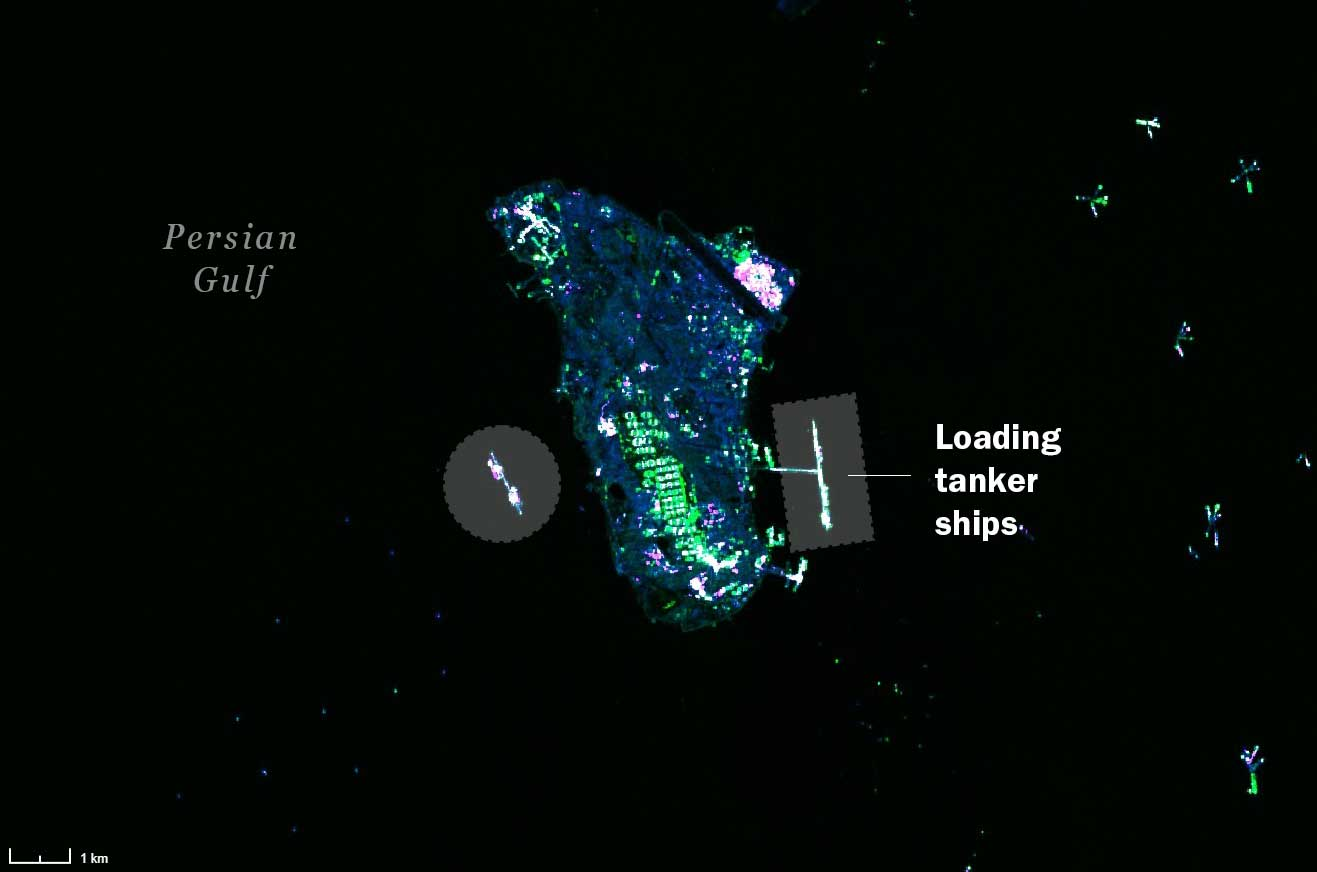
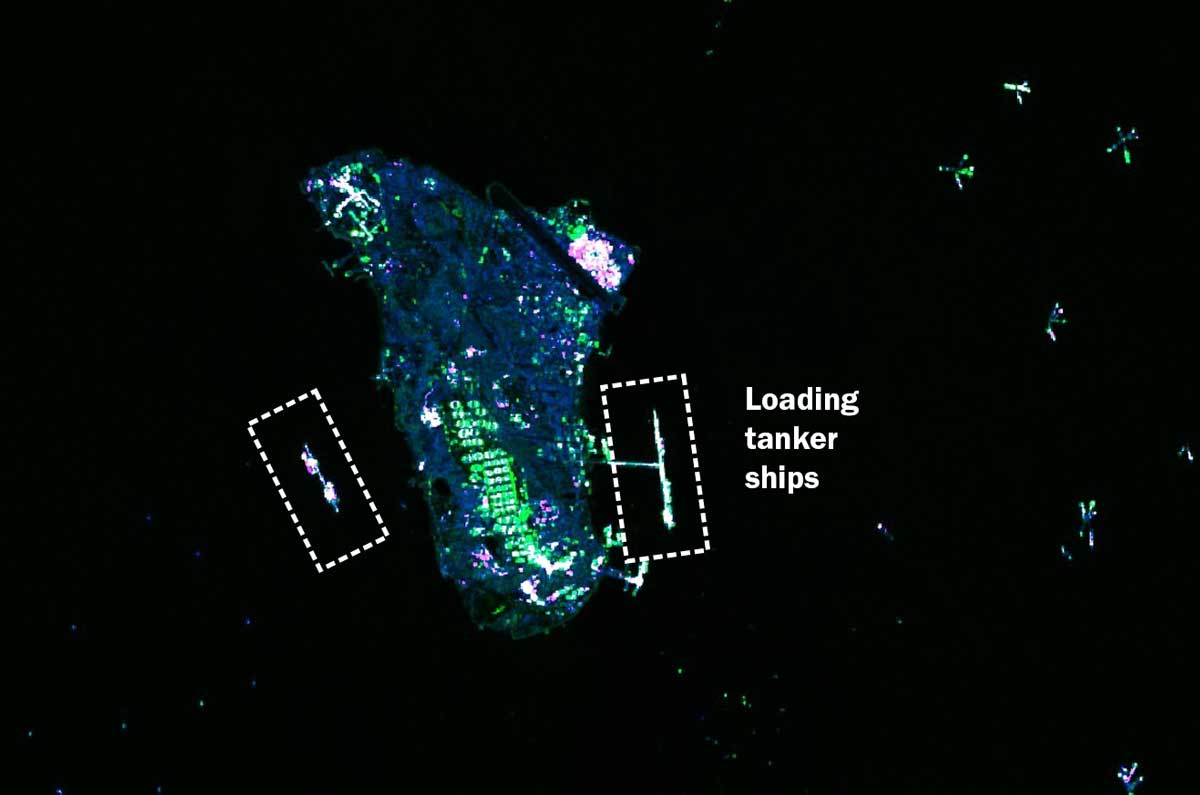
kharg redo, offset fix

diff --git a/index.html b/index.html
@@ -304,6 +304,31 @@
             </p>
         </section>
 
+        <section class="chapter-copy chapter-copy--world-order">
+            <h2 class="graph-hed">Share of Nitrogenous Fertiliser Imports from Gulf Countries in 2023 (%),
+                by Nitrogen Use per Area of
+                Cropland (kg/ha) from Inorganic Fertilisers</h2>
+            <figure class="media-breakout media-block">
+                <img loading="lazy" decoding="async" src="media/5.png" alt="Fertiliser supply chain" />
+
+                <figcaption>
+                    Many countries use nitrogenous fertiliser brought in from Gulf countries to produce
+                    grain and
+                    oilseed. This chart shows how much they typically rely on those imports. Sources: FAO.
+                    2026.
+                    FAOSTAT: Detailed trade matrix (fertilisers).
+                    <span class="credit">CRISIS GROUP</span>
+                </figcaption>
+            </figure>
+
+              <p>
+                        Countries where war has already severely disrupted agriculture, such as Sudan – where the UN
+                        documented famine in 2024 and 2025 and continues to warn of mass starvation – are even more
+                        vulnerable to another price shock.
+                    </p>
+
+        </section>
+
         <section
             class="chapter-copy chapter-copy--scroll-swap chapter-copy--scroll-swap-contained chapter-copy--scroll-swap-wide-media media-block"
             data-scroll-swap data-swap-state="before">
@@ -319,11 +344,6 @@
                     </div>
                 </figure>
                 <div class="scroll-swap__copy">
-                    <p>
-                        Countries where war has already severely disrupted agriculture, such as Sudan – where the UN
-                        documented famine in 2024 and 2025 and continues to warn of mass starvation – are even more
-                        vulnerable to another price shock.
-                    </p>
                     <p>This massive hit to fertiliser supply represents a major risk for present or fast-approaching
                         planting seasons for <a href="https://www.fas.usda.gov/data/production/0422110" target="_blank"
                             rel="noopener noreferrer">rice</a> in the Eastern Hemisphere and, should it persist into
@@ -378,25 +398,6 @@
                                 href="https://www.forbes.com/sites/tiriasresearch/2026/04/07/helium-crisis-tightens-grip-on-global-chip-supply-chain/"
                                 target="_blank" rel="noopener noreferrer">Taiwan</a>.
                         </p>
-
-                    </section>
-
-                    <section class="chapter-copy chapter-copy--world-order">
-                        <h2 class="graph-hed">Share of Nitrogenous Fertiliser Imports from Gulf Countries in 2023 (%),
-                            by Nitrogen Use per Area of
-                            Cropland (kg/ha) from Inorganic Fertilisers</h2>
-                        <figure class="media-breakout media-block">
-                            <img loading="lazy" decoding="async" src="media/5.png" alt="Fertiliser supply chain" />
-
-                            <figcaption>
-                                Many countries use nitrogenous fertiliser brought in from Gulf countries to produce
-                                grain and
-                                oilseed. This chart shows how much they typically rely on those imports. Sources: FAO.
-                                2026.
-                                FAOSTAT: Detailed trade matrix (fertilisers).
-                                <span class="credit">CRISIS GROUP</span>
-                            </figcaption>
-                        </figure>
 
                     </section>
 

diff --git a/styles.css b/styles.css
@@ -409,7 +409,7 @@ figure {
 }
 
 .chapter-copy--scroll-swap-tss .scroll-swap__track--five {
-  height: 460vh;
+  height: 600vh;
 }
 
 .chapter-copy--scroll-swap-fast {
@@ -520,7 +520,7 @@ figure {
 }
 
 .wide-media--scroll-swap-tss {
-  --scroll-swap-image-offset-y: -10%;
+  --scroll-swap-image-offset-y: -12%;
 }
 
 .scroll-swap__stage {